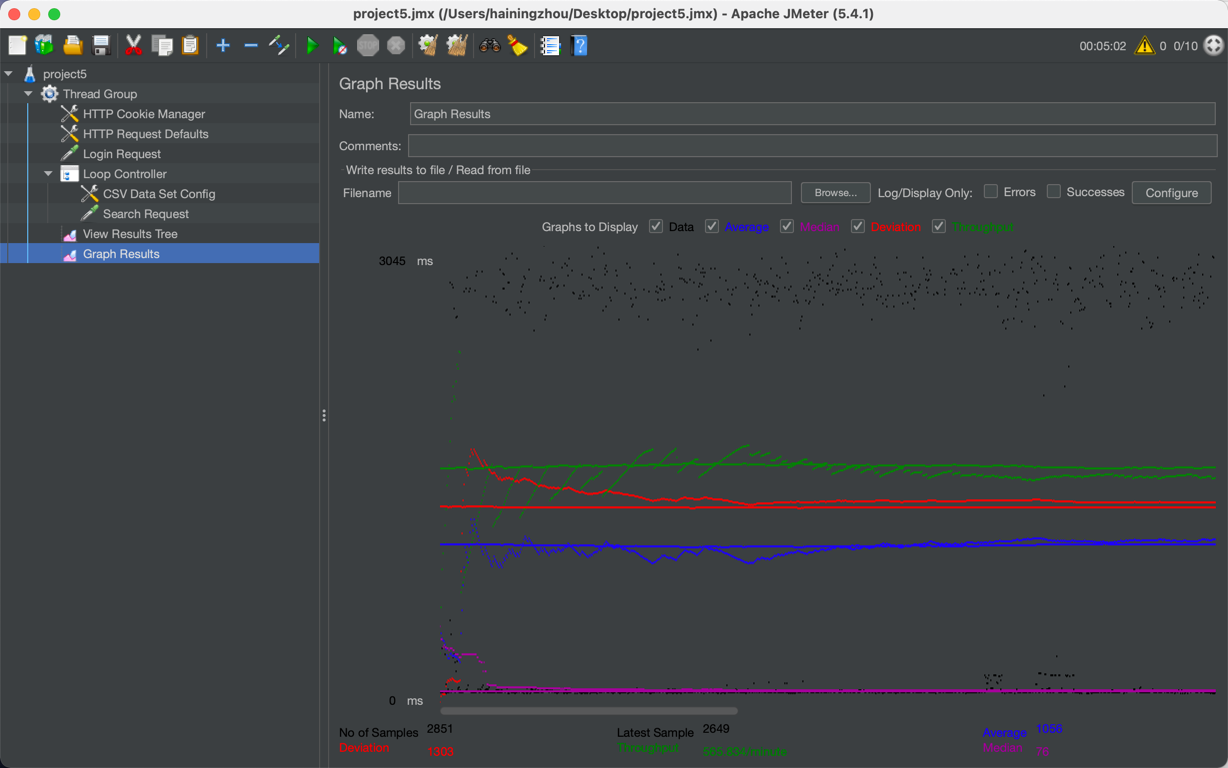
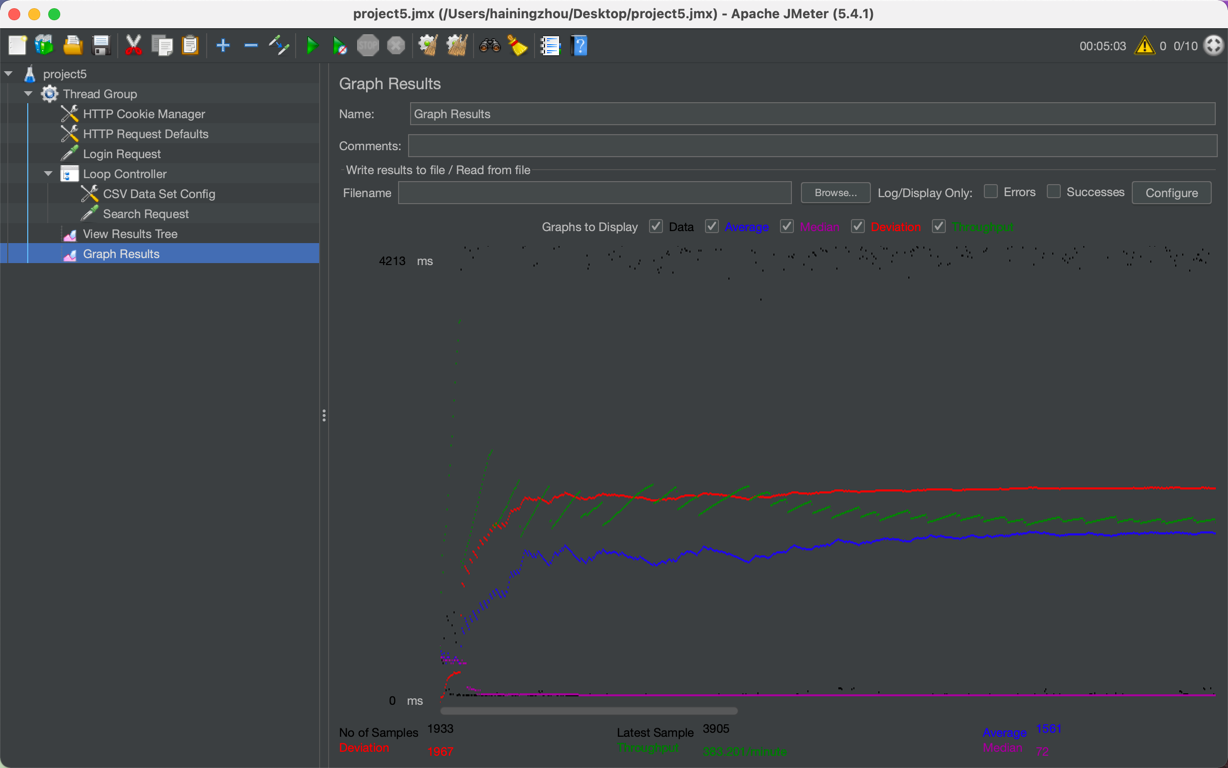
moved from original repo

diff --git a/src/DashboardServlet.java b/src/DashboardServlet.java
@@ -33,7 +33,7 @@ public class DashboardServlet extends HttpServlet {
 
     public void init(ServletConfig config) {
         try {
-            dataSource = (DataSource) new InitialContext().lookup("java:comp/env/jdbc/master");
+            dataSource = (DataSource) new InitialContext().lookup("java:comp/env/jdbc/moviedb");
         } catch (NamingException e) {
             e.printStackTrace();
         }

diff --git a/src/AddStarServlet.java b/src/AddStarServlet.java
@@ -33,7 +33,7 @@ public class AddStarServlet extends HttpServlet {
 
     public void init(ServletConfig config) {
         try {
-            dataSource = (DataSource) new InitialContext().lookup("java:comp/env/jdbc/master");
+            dataSource = (DataSource) new InitialContext().lookup("java:comp/env/jdbc/moviedb");
         } catch (NamingException e) {
             e.printStackTrace();
         }

diff --git a/README.md b/README.md
@@ -1,81 +1,125 @@
 - # General
     - #### Team#: 25
 
-    - #### Names: Haining Zhou; Haoxin Lin
-
-    - #### Project 5 Video Demo Link: https://youtu.be/M5OtdeYzMFk
-
+    - #### Members: Haining Zhou; Haoxin Lin
+    
     - #### Instruction of deployment:
         - Setup AWS service and Google cloud computing services with Tomcat and Apache2
         - Install JAVA 11
         - Install Mysql 8.0 and inserted the original database and xml data
         - Build the replication relationship between master and slave instance on Mysql
-        - Maven package the code and upload the .war file into master and slave instance
+        - Maven-package the code and upload the .war file into master and slave instance
         - Setup the port between servicers such as 22, 80, 3306, 8080 and 8443
-        - Download the Jmeter and make the configuration based on the url
+        - Download Apache Jmeter and make the configuration based on the url
         - Use python command to run the codebase of Time measurement
+        - For test log in, use "a@email.com" as username and "a2" as password
+      
+  ##Overall Structure:
+  ![](images/structure.png)
+      
+  ##Stage 1: Setup AWS, MySQL, JDBC, Tomcat, Start Fabflix
+   - #### Collaborations and Work Distribution:
+     Haoxin Lin:
+        - Set up the environment
+        - Worked on index page and MovieServlet
+        - Worked on single star page and SingleStarServlet
+        - Developed the link from single star to movies list
+        - Developed the link from single star to single movie
+        - Developed the link to go back moves list page
+          <br><br>
+
+     Haining Zhou:
+        - Created mysql table
+        - Worked on index page and MovieServlet
+        - Worked on single movie page and SingleMovieServlet
+        - Developed the link from movies list to single movie
+        - Developed the link from single movie to single stars
+        - Developed the link to go back moves list page
+
+   - #### Demo URL: https://youtu.be/YwcTtcIKyZw
+
+  ##Stage 2: Developing Fabflix Website
+    - ####Substring matching design:
+      Basically, we use % to match an arbitrary number of characters for MySQL in our substring match function.
+      For searching the movie title, director, and star name, we use two % to include the substring that users input in
+      our search query.  It will search the data to find which contains the substring part and return. But for the
+      searching the year, we don't use this method because it must be a specific number.
+  
+    - #### Collaborations and Work Distribution:
+      Haoxin Lin:
+        - Implemented login page
+        - Implemented main page
+        - Implemented shopping cart page
+        - Implemented payment page
+        - Implemented place order action
+          <br><br>
+
+      Haining Zhou:
+        - Implemented searching
+        - Implemented browsing
+        - Implemented movie list page
+        - Implemented single pages
+        - Implemented jump functionality
+
+    - #### Demo URL: https://youtu.be/4LG-mj_MNEU
+  
+  ##Stage 3: reCAPTCHA, HTTPS, PreparedStatement, Stored Procedure, XML Parsing
+    - ####Parsing time optimization strategies:
+      - Used stored procedures
+      - Used addBatch() and executeBatch() for PreparedStatement
+      - Used HashMaps for checking duplicates
+      - Wrote insert statements into files and used load data to speed up insertion
 
     - #### Collaborations and Work Distribution:
-      Haoxin Lin
-      <br>
-        - Implement MySQL master-Slave Replication
-        - GCP environment Setup
-        - Built Load Banlancer
-        - Collect the performance results
-        - Optimization  
-          <br>
-          Haining Zhou
-        - Implement Connection Pooling
-        - Developed the Tomcat service
-        - Built Apache JMeter
-        - Design the codebase of Time measurement
-        - Optimization
+      Haoxin Lin:
+        - Implemented HTTPS
+        - Implemented Password Encryption
+        - Implemented Employee Dashboard
+          <br><br>
 
+      Haining Zhou:
+        - Implemented reCAPTCHA
+        - Implemented Employee Dashboard
+        - Implemented XML Parsing
 
-- # Connection Pooling
-    - #### Include the filename/path of all code/configuration files in GitHub of using JDBC Connection Pooling.
-      https://github.com/UCI-Chenli-teaching/cs122b-fall21-team-25/blob/main/src/AddStarServlet.java
-      https://github.com/UCI-Chenli-teaching/cs122b-fall21-team-25/blob/main/src/AutoCompleteServlet.java
-      https://github.com/UCI-Chenli-teaching/cs122b-fall21-team-25/blob/main/src/CheckOutServlet.java
-      https://github.com/UCI-Chenli-teaching/cs122b-fall21-team-25/blob/main/src/DashboardServlet.java
-      https://github.com/UCI-Chenli-teaching/cs122b-fall21-team-25/blob/main/src/FormServlet.java
-      https://github.com/UCI-Chenli-teaching/cs122b-fall21-team-25/blob/main/src/IndexServlet.java
-      https://github.com/UCI-Chenli-teaching/cs122b-fall21-team-25/blob/main/src/LoginServlet.java
-      https://github.com/UCI-Chenli-teaching/cs122b-fall21-team-25/blob/main/src/MovieServlet.java
-      https://github.com/UCI-Chenli-teaching/cs122b-fall21-team-25/blob/main/src/PlaceOrderServlet.java
-      https://github.com/UCI-Chenli-teaching/cs122b-fall21-team-25/blob/main/src/SearchResultServlet.java
-      https://github.com/UCI-Chenli-teaching/cs122b-fall21-team-25/blob/main/src/SingleMovieServlet.java
-      https://github.com/UCI-Chenli-teaching/cs122b-fall21-team-25/blob/main/src/SingleStarServlet.java
+    - #### Demo URL: https://youtu.be/-yPmK0sfq_s
+
+  ##Stage 4: Full-Text Search, Autocomplete, Android Application, FuzzySearch
+    - #### Collaborations and Work Distribution:
+      Haoxin Lin:
+        - Implemented Autocomplete
+          <br><br>
+
+      Haining Zhou:
+        - Implemented Android
+
+    - #### Demo URL: https://youtu.be/i1zzBd0H-Fo
+
+  ##Stage 5: Scaling Fabflix and Performance Tuning
       
-    - #### Explain how Connection Pooling is utilized in the Fabflix code.
+    - #### How Connection Pooling is utilized in the Fabflix code.
       Connection Pooling is used to increase the performance of Fabflix via reusing connections. In order to add the 
       functionality, we modify the context.xml file under /WebContent/META-INF/. When there is a request to get 
       connection, a connection is taken from the "pool" (previous connections) instead of being newly generated; when
       the connection is closed, it is returned to the "pool" rather than being "killed".
     
-    - #### Explain how Connection Pooling works with two backend SQL.
-      I assume the two backend SQL refers to the Master instance and the Slave instance. We enable Connection Pooling
-      on both the Master instance and the Slave instance. When there is a connection request in either of the instances,
+    - #### How Connection Pooling works with two backend SQL.
+      We enable Connection Pooling on both the Master instance and the Slave instance. When there is a connection request in either of the instances,
       it will behave like what is stated in the above question.
   
-- # Master/Slave
-    - #### Include the filename/path of all code/configuration files in GitHub of routing queries to Master/Slave SQL.
-      https://github.com/UCI-Chenli-teaching/cs122b-fall21-team-25/blob/main/WebContent/META-INF/context.xml
-  
-    - #### How read/write requests were routed to Master/Slave SQL?
-      A reading request can be sent to either the Master instance or the Slave instance, while a writing request should
-      be sent to only the Master instance because the things being written will be automatically sync to the Slave
-      instance. To do this, we set up 2 resources in the context.xml file called jdbc/moviedb (localhost) and 
-      jdbc/master (master instance ip) separately. For the servlets that have the write functionality (AddStarServlet 
-      and DashboardServlet), we use the jdbc/master; for all of the other servlets with read functionality, we use jdbc/moviedb.
-        
+    - #### Master/Slave  
+      - #### How read/write requests were routed to Master/Slave SQL?
+        A reading request can be sent to either the Master instance or the Slave instance, while a writing request should
+        be sent to only the Master instance because the things being written will be automatically sync to the Slave
+        instance. To do this, we set up 2 resources in the context.xml file called jdbc/moviedb (localhost) and 
+        jdbc/master (master instance ip) separately. For the servlets that have the write functionality (AddStarServlet 
+        and DashboardServlet), we use the jdbc/master; for all other servlets with read functionality, we use jdbc/moviedb.
 
-- # JMeter TS/TJ Time Logs
-    - #### Instructions of how to use the `log_processing.*` script to process the JMeter logs.
-      log_processing.py [file_name]
+    - #### JMeter TS/TJ Time Logs
+      - #### Instructions of how to use the `log_processing.*` script to process the JMeter logs.
+        log_processing.py [file_name]
 
-- # JMeter TS/TJ Time Measurement Report
-
+      - #### JMeter TS/TJ Time Measurement Report
 | **Single-instance Version Test Plan**          | **Graph Results Screenshot** | **Average Query Time(ms)** | **Average Search Servlet Time(ms)** | **Average JDBC Time(ms)** | **Analysis** |
 |------------------------------------------------|------------------------------|----------------------------|-------------------------------------|---------------------------|--------------|
 | Case 1: HTTP/1 thread                          | ![](path to image in img/)   | 320                        | 200.72845609732622                  | 200.52109728877005        | Since there is only 1 thread, the time is relatively low compared with 10 threads. Ts and Tj do not differ much because the main tasks in doGet are all related to JDBC            |
@@ -85,6 +129,24 @@
 
 | **Scaled Version Test Plan**                   | **Graph Results Screenshot** | **Average Query Time(ms)** | **Average Search Servlet Time(ms)** | **Average JDBC Time(ms)** | **Analysis** |
 |------------------------------------------------|------------------------------|----------------------------|-------------------------------------|---------------------------|--------------|
-| Case 1: HTTP/1 thread                          | ![](path to image in img/)   | 313                        | 230.622125                          | 224.8265865               | ??           |
-| Case 2: HTTP/10 threads                        | ![](path to image in img/)   | 1056                       |                           |                | ??           |
-| Case 3: HTTP/10 threads/No connection pooling  | ![](path to image in img/)   | 1569                       | 1630.3162123865031                  | 1438.0681238006134        | With the number of threads increase to 10, the time significantly increases. With load balancingTs and Tj again do not differ much because the main tasks in doGet are all related to JDBC           |
+| Case 1: HTTP/1 thread                          | ![](path to image in img/)   | 313                        | 230.622125                          | 224.8265865               | Since there is only 1 thread, the time is relatively low compared with 10 threads. The average is lower than single instance case 1 because of load balancing.  Ts and Tj do not differ much because the main tasks in doGet are all related to JDBC           |
+| Case 2: HTTP/10 threads                        | ![](path to image in img/)   | 1561                       | 1483.8507295420366                  | 1483.4765393671019        | With the number of threads increase to 10, the time significantly increases. With load balancing, the time in general is less than single instance case 3. Ts and Tj again do not differ much because the main tasks in doGet are all related to JDBC 
+| Case 3: HTTP/10 threads/No connection pooling  | ![](path to image in img/)   | 1569                       | 1630.3162123865031                  | 1438.0681238006134        | With the number of threads increase to 10, the time significantly increases. With load balancing, the time in general is less than single instance case 4. Ts and Tj again do not differ much because the main tasks in doGet are all related to JDBC           |
+    
+  - #### Collaborations and Work Distribution:
+    Haoxin Lin:
+      - Implement MySQL master-Slave Replication
+      - GCP environment Setup
+      - Built Load Banlancer
+      - Collect the performance results
+      - Optimization  
+        <br>
+
+    Haining Zhou:
+      - Implement Connection Pooling
+      - Developed the Tomcat service
+      - Built Apache JMeter
+      - Design the codebase of Time measurement
+      - Optimization
+
+  - #### Demo URL: https://youtu.be/iyj1H6eEymc
